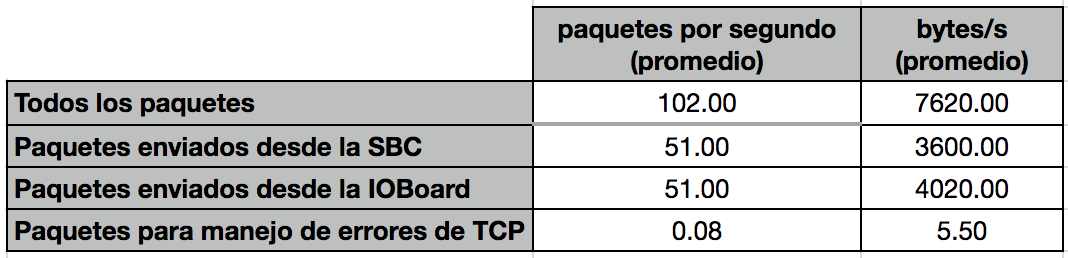
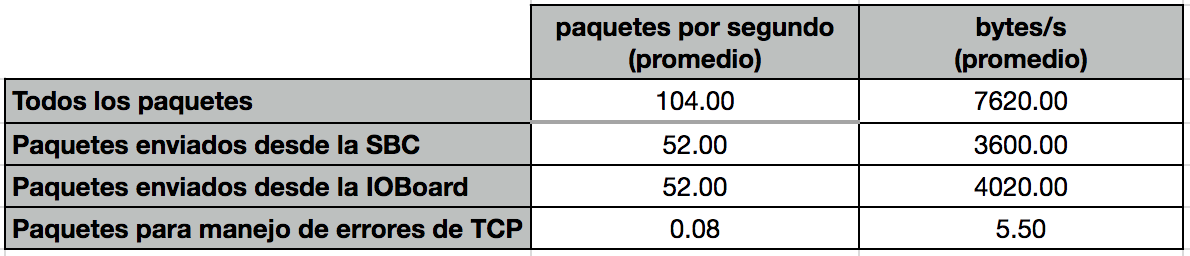
avances en la documentación de experimentos con TCP.

Changed region(s): [[0.0, 0.0, 1.0, 1.0]]

diff --git a/Documentation/Informe/proyecto_ras/proyecto_ras.tex b/Documentation/Informe/proyecto_ras/proyecto_ras.tex
@@ -1211,7 +1211,7 @@ Se realizaron experimentos sobre la comunicación entre las placas \hl{SBC} e \h
 Los experimentos consisten en monitorear y analizar los paquetes  de datos que se transmiten en la comunicación entre las placas considerando diferentes escenarios:
 \begin{itemize}
 	\item \textul{b\'{a}sico}: únicamente hay flujo de datos desde la \hl{IOBoard} a la \hl{SBC}, y dicho flujo corresponde a los reportes esenciales que realiza la placa para comunicar el estado de los motores (velocidades y potencias de los motores), así como también el estado general del robot y de sus mecanismos y dispositivos de seguridad.
-	\item \textul{carga a 10hz}: contempla el flujo de datos del escenario anterior y agrega un tráfico de 10 mensajes por segundo, con la semántica de la funcionalidad \hl{ping}, enviados desde la placa \hl{SBC} a la placa \hl{IOBoard}, y al procesar estos mensajes esta última los responde generando un mensaje idéntico al recibido, lo que genera un flujo de daos extra desde la \hl{IOBoard} a la \hl{SBC} contemplando los reportes y todos los menajes de ping.
+	\item \textul{carga a 15hz}: contempla el flujo de datos del escenario anterior y agrega un tráfico de 15 mensajes por segundo, con la semántica de la funcionalidad \hl{ping}, enviados desde la placa \hl{SBC} a la placa \hl{IOBoard}, y al procesar estos mensajes esta última los responde generando un mensaje idéntico al recibido, lo que genera un flujo de daos extra desde la \hl{IOBoard} a la \hl{SBC} contemplando los reportes y todos los menajes de ping.
 	\item \textul{carga a 30hz}: idéntico al escenario anterior pero generando 30 mensajes por segundo en lugar de generar 10.
 	\item \textul{carga a 50hz}: idéntico al escenario anterior pero generando 50 mensajes por segundo en lugar de generar 30.
 \end{itemize}
@@ -1220,14 +1220,14 @@ Es interesante analizar la cantidad de paquetes así como también la cantidad d
 \subsubsection{Escenario básico}
 \begin{figure}[H]
   \centering
-  	\includegraphics[width=\textwidth]{images/TCP_Throughput_io_to_pc_basic_pkps}
+  	\includegraphics[width=0.8\textwidth]{images/TCP_Throughput_io_to_pc_basic_pkps}
   	\caption[Throughput de la conexión TCP - Básico]{Flujo de paquetes TCP en la comunicación SBC $\leftrightarrow$ IOBoard -  Escenario básico}
   \label{fig:TCP_Throughput_io_to_pc_basic_pkps}
 \end{figure}
 
 \begin{figure}[H]
   \centering
-  	\includegraphics[width=\textwidth]{images/TCP_Throughput_io_to_pc_basic_bps}
+  	\includegraphics[width=0.8\textwidth]{images/TCP_Throughput_io_to_pc_basic_bps}
   	\caption[Throughput de la conexión TCP - Básico]{Flujo de datos (bits) TCP en la comunicación SBC $\leftrightarrow$ IOBoard -  Escenario básico}
   \label{fig:TCP_Throughput_io_to_pc_basic_bps}
 \end{figure}
@@ -1240,43 +1240,50 @@ Se pueden observar los siguientes datos:
 		\label{fig:TCP_Throughput_io_to_pc_basic_pkps_results}
 	\end{minipage}
 \end{table}
+Si bien se observa que la cantidad de paquetes que se envían desde cada placa son similares, esto es debido a que TCP exige confirmación de paquetes recibidos exitosamente, la cantidad de datos transmitidos es sensiblemente diferente para cada placa. Claro que esto tiene sentido ya que el flujo de datos es generado por los reportes de estados que realiza la placa de entrada/salida y la SBC simplemente responde confirmando que los mensajes fueron recibidos de forma correcta, siguiendo con la especificación del protocolo de comunicación.
 
-\subsubsection{Escenario con carga 10hz}
+También se observaron algunos mensajes de TCP utilizados para monitorear indicadores del protocolo, en particular los mensajes registrados en el experimento corresponden a alertas que indican la falta de confirmación de recibido a un mensaje. Estas alertas son de nivel de seguridad bajo y no se perdieron datos en la comunicación.
+
+\subsubsection{Escenario con carga 15hz}
 \begin{figure}[H]
   \centering
-  	\includegraphics[width=\textwidth]{images/TCP_Throughput_io_to_pc_10hz_pps}
-  	\caption[Throughput de la conexión TCP - Básico]{Flujo de paquetes TCP en la comunicación SBC $\leftrightarrow$ IOBoard -  Escenario con carga a 10hz}
-  \label{fig:TCP_Throughput_io_to_pc_10hz_pps}
+  	\includegraphics[width=0.8\textwidth]{images/TCP_Throughput_io_to_pc_15hz_pps}
+  	\caption[Throughput de la conexión TCP - Escenario con carga a 15hz]{Flujo de paquetes TCP en la comunicación SBC $\leftrightarrow$ IOBoard -  Escenario con carga a 15hz}
+  \label{fig:TCP_Throughput_io_to_pc_15hz_pps}
 \end{figure}
 
 \begin{figure}[H]
   \centering
-  	\includegraphics[width=\textwidth]{images/TCP_Throughput_io_to_pc_10hz_bps}
-  	\caption[Throughput de la conexión TCP - Básico]{Flujo de datos (bits) TCP en la comunicación SBC $\leftrightarrow$ IOBoard -  Escenario con carga a 10hz}
-  \label{fig:TCP_Throughput_io_to_pc_10hz_bps}
+  	\includegraphics[width=0.8\textwidth]{images/TCP_Throughput_io_to_pc_15hz_bps}
+  	\caption[Throughput de la conexión TCP - Escenario con carga a 15hz]{Flujo de datos (bits) TCP en la comunicación SBC $\leftrightarrow$ IOBoard -  Escenario con carga a 15hz}
+  \label{fig:TCP_Throughput_io_to_pc_15hz_bps}
 \end{figure}
-Del experimento se pueden observar los siguientes datos:
+Del experimento se observan los siguientes datos:
 \begin{table}[H]
 	\centering
  	\begin{minipage}[b]{0.6\textwidth}  	
-  		\includegraphics[width=\textwidth]{images/TCP_Throughput_io_to_pc_10hz_results}
-  		\caption[Throughput de la conexión TCP - Básico]{Flujo de paquetes TCP en la comunicación SBC $\leftrightarrow$ IOBoard -  Resultados en escenario con carga a 10hz}
-		\label{fig:TCP_Throughput_io_to_pc_10hz_results}
+  		\includegraphics[width=\textwidth]{images/TCP_Throughput_io_to_pc_15hz_results}
+  		\caption[Throughput de la conexión TCP - Escenario con carga a 15hz]{Flujo de paquetes TCP en la comunicación SBC $\leftrightarrow$ IOBoard -  Resultados en escenario con carga a 15hz}
+		\label{fig:TCP_Throughput_io_to_pc_15hz_results}
 	\end{minipage}
 \end{table}
+
+Como era de esperarse la cantidad total de paquetes por segundo aumenta en 30 paquetes respecto al escenario básico, esto es debido a que se generan 15 paquetes por segundo con el comando \textit{ping}, en la placa SBC, y los mismos son respondidos por la placa de entrada/salida ni bien llegan.
+También en este escenario se registraron algunos paquetes de control de TCP para manejar algunos indicadores relevantes a la confirmación de entrega de paquetes. No se registra pérdida de datos en la comunicación.
+
 
 \subsubsection{Escenario con carga 30hz}
 \begin{figure}[H]
   \centering
-  	\includegraphics[width=\textwidth]{images/TCP_Throughput_io_to_pc_30hz_pps}
-  	\caption[Throughput de la conexión TCP - Básico]{Flujo de paquetes TCP en la comunicación SBC $\leftrightarrow$ IOBoard -  Escenario con carga a 30hz}
+  	\includegraphics[width=0.8\textwidth]{images/TCP_Throughput_io_to_pc_30hz_pps}
+  	\caption[Throughput de la conexión TCP - Escenario con carga a 30hz]{Flujo de paquetes TCP en la comunicación SBC $\leftrightarrow$ IOBoard -  Escenario con carga a 30hz}
   \label{fig:TCP_Throughput_io_to_pc_30hz_pps}
 \end{figure}
 
 \begin{figure}[H]
   \centering
-  	\includegraphics[width=\textwidth]{images/TCP_Throughput_io_to_pc_30hz_bps}
-  	\caption[Throughput de la conexión TCP - Básico]{Flujo de datos (bits) TCP en la comunicación SBC $\leftrightarrow$ IOBoard -  Escenario con carga a 30hz}
+  	\includegraphics[width=0.8\textwidth]{images/TCP_Throughput_io_to_pc_30hz_bps}
+  	\caption[Throughput de la conexión TCP - Escenario con carga a 30hz]{Flujo de datos (bits) TCP en la comunicación SBC $\leftrightarrow$ IOBoard -  Escenario con carga a 30hz}
   \label{fig:TCP_Throughput_io_to_pc_30hz_bps}
 \end{figure}
 Del experimento se pueden observar los siguientes datos:
@@ -1288,6 +1295,9 @@ Del experimento se pueden observar los siguientes datos:
 		\label{fig:TCP_Throughput_io_to_pc_30hz_results}
 	\end{minipage}
 \end{table}
+Al igual que en el escenario anterior, se observa un aumento de flujo de datos consistente con el aumento de frecuencia de emisión de paquetes por la placa SBC con comandos \textit{ping}. 
+También en este escenario se registra una cantidad insignificante de paquetes de control de TCP con procesamiento de alertas y no se registra pérdida de datos en la comunicación.
+
 
 \subsubsection{Escenario con carga 50hz}
 \begin{figure}[H]
@@ -1340,6 +1350,7 @@ Sobre el mecanismo de control del limite de velocidad: Los resultados arrojados 
 Sobre el mecanismo de control de la relación entre potencia y velocidad: Si bien el mecanismo pudo ser validado y los resultados se muestran promisorios, las condiciones ideales en las que se realizo el experimento para determinar la relación entre la potencia y velocidad hacen que se deba ser cauto a la hora de tomar en cuenta estos resultados en otras circunstancias. Seria recomendable realizar experimentos que cubran mas situaciones y configuraciones que se asemejen más al ambiente final donde el robot operara. De hecho, por si solos los valores de velocidad y potencia aportan poca información acerca de lo que esta sucediendo, seria positivo contar con sensores que aporten mas información como podría ser la inclinación, el nivel de batería y el peso de la carga transportada por el robot.
 \subsection{Pruebas de Rendimiento}
 \subsubsection{Throughput de la conexión TCP}
+
 \subsubsection{Tiempo de respuesta frente a situaciones anómalas (tiempo de deshabilitación)}
 Sobre tiempo de respuesta frente a situaciones anómalas: Si bien se considera positivo que el tiempo de deshabilitacion sea constante, una demora de \SI{1}{\second} parece excesiva y da cabida situaciones de riesgo, habría optimizar el proceso. No obstante esto, si se sigue la recomendación realizada en esta misma sección de que el robot no se desplace a mas de \SI{1.50}{\metre/\second} el robot no colisionara con obstáculos aun con esta demora.
 
